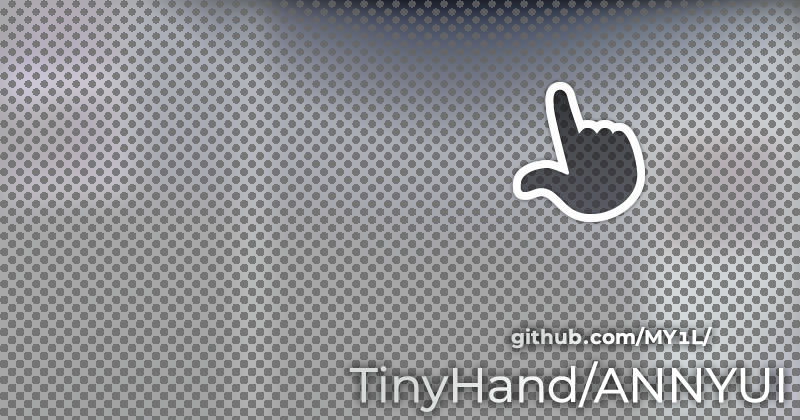
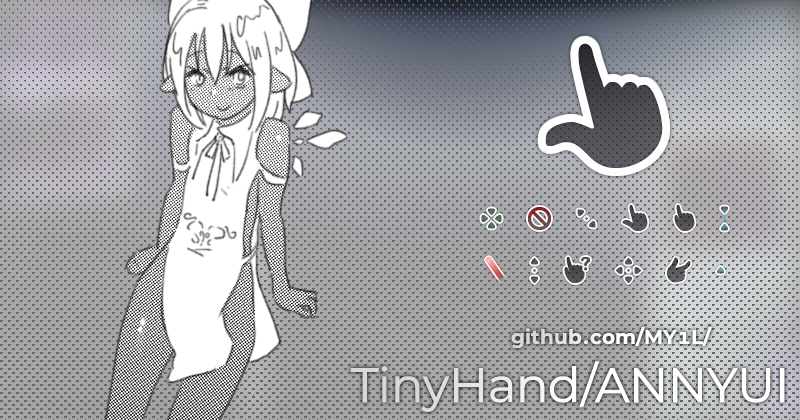
接近于正式版

diff --git a/README.md b/README.md
@@ -1,27 +1,27 @@
-![GIF](/_img/TinyHand.gif)
+用于而不限于视窗系统的自制光标系列。
 
-这是对2018年12月9日发布的“[thinkingcursor](https://github.com/MY1L/thinkingcursor)”光标的更新，但改成更好记的名称：**TinyHand**
-
-主要是让动画更流畅（指帧数）及修正某些像素级的错误。
-
-如先前所说扩大为系列，如今更支持**黑暗模式**和中指，政确力UpUp!
-
-## 更新
-* 未来计划：小小手，仅24~16px尺寸的光标如图![TinyTiny](/_img/TinyTinyHand.png)，如果有需求就做。
-* 2020-2-7 v0.3 修改所有`.inf`文件，现在会自动打开 控制面板→鼠标 了。
+这是对2018年12月9日发布的“[thinkingcursor](https://github.com/MY1L/thinkingcursor)”光标的更新，但改成更好记的名称：**TinyHand**。主要是让动画更流畅（指帧数）及修正某些像素级的错误。如今更支持**黑暗模式**和中指，从一扩大为三系列，政确力UpUp!
 
 ## 一览
-![KOFJI](/_img/KOFJI.png)
+一共三大系列（肤色）：ZRKL、KOFJI、ANNYUI（名称越长颜色越暗）和各种小分支。
 
-一共3大系列（肤色）：ZRKL、KOFJI、ANNYUI（名称越长颜色越暗）和各种小分支。
+![KOFJI](/_img/KOFJI.gif)
+
+用动图展示包含的几个动画光标。由于GIF最多显示256色，以下就不用动图了。
 
 ![ZRKL](/_img/ZRKL.png)
 
-给ZRKL做的手势比较多。注意“sweat.ani”是代替“helpsel.cur”的，动态光标可能不宜用作默认。
+给ZRKL做的手势比较多。注意“sweat.ani”是代替“helpsel.cur”的，动画光标不太宜作常态光标。
 
 ![ANNYUI](/_img/ANNYUI.png)
 
-个别光标有透窗效果，而ANNYUI是全部都带透窗效果的黑暗模式。
+上述两个系列个别光标有透窗效果，而ANNYUI是全部都带透窗效果的黑暗模式，相当于再做了一组。预览图……再给我点时间。
+
+## 更新
+* 未来计划：小小手，仅24~16px尺寸的光标如图![TinyTiny](/_img/TinyTinyHand.png)，如有需求就做。
+* 2020-2-9 v0.6 修正`cross`。给`Zmidfinger🖕`加了Zanger💢分支，给`Aunavail🚫`加了令和十八年🔞分支。补完ZRKL系列。
+> 💢不慎误操作让GitHub删除我今天21个更新，凭记忆重做一遍。
+* 2020-2-7 v0.3 修改所有`.inf`文件，现在会自动打开 控制面板→鼠标 了。
 
 ## 下载 ![GitHub repo size](https://img.shields.io/github/repo-size/MY1L/TinyHand) ![GitHub All Releases](https://img.shields.io/github/downloads/MY1L/TinyHand/total)
 全部打包：[Releases · MY1L/TinyHand](https://github.com/MY1L/TinyHand/releases)
@@ -29,21 +29,21 @@
 ## 安装
 
 ### 勤快向
-先把光标们放到一个你确定不会动的位置，控制面板→鼠标→指针，创建一个新光标方案逐个改动。这样不会有什么文件倒进系统盘。
+先把光标们放到一个你确定不会动的位置，控制面板→鼠标→指针，创建一个新光标方案逐个改动。这样不会有什么文件倒进系统里。
 ### 懒人向
-对`.inf`右键点“安装”，这会把一堆相关光标一股脑儿全倒进`%SYSTEMROOT%\Cursors\TinyHand`系统光标文件夹里，并在注册表`HKCU\Control Panel\Cursors\Schemes`生成一个光标方案。等复制完（很快的）后会自动打开 控制面板→鼠标，此时应该改好了，如果没变化，选 鼠标→指针→`TinyHand ***`方案，点应用。如有“你所选择的光标方案名已在使用中。是否要替换原方案?”提示可以无视。
+对`.inf`右键点“安装”，这会把一堆相关光标一股脑儿全倒进`%SYSTEMROOT%\Cursors\TinyHand`系统光标文件夹里，并在注册表`HKCU\Control Panel\Cursors\Schemes`生成一个光标方案。等复制完（很快的）后会自动打开 控制面板→鼠标，此时应该改好了，如果没变化，选 鼠标→指针→`TinyHand ***`方案，点应用。
 
-考虑到ZRKL有些光标与KOFJI重复，决定以KOFJI为基准。装ZRKL需要先安装`KOFJI***.inf`，当然手动安装无所谓。
+如有“你所选择的光标方案名已在使用中。是否要替换原方案?”提示可以无视。
 
 ## 卸载
-控制面板→鼠标→指针，删除方案，再删除对应光标。如果是用`.inf`安装的，还要进系统光标文件夹删`TinyHand`文件夹。
+控制面板→鼠标→指针，删除方案，再删除对应光标。如果用的`.inf`安装，还要进系统光标文件夹删`TinyHand`文件夹。
 
 ## 注意
-* 资源管理器可能会错误显示cur的预览，例如发现TinyHand光标出现在TinyHand文件夹之外（这应该不可能），请删除前用控制面板的指针预览确认下。
-* 控制面板的指针预览不会按正常速度显示动态光标。
+* 资源管理器可能会错误地显示光标缩略图，例如发现TinyHand光标出现在TinyHand文件夹之外（这应该不可能），请删除前用控制面板的光标预览确认下。
+* 控制面板的指针预览不会按正常速度显示动画光标。
 * 中指光标的灵感来自[这个用于百度的脚本](https://greasyfork.org/zh-CN/scripts/28206-baidu-cursor)。
-* 可以自行修改`.inf`，但保存的文本编码必须为ANSI，否则乱码。
+* 可以自行修改`.inf`，但保存时文本编码必须选ANSI，否则安装的方案名会乱码。
 
 若要定制其它题材光标或赞助，[请来这发电](https://afdian.net/@FairyFloss)。
 
-还有什么问题建议就来[Issues ](https://github.com/MY1L/TinyHand/issues)发帖。
+还有其它问题建议就来[Issues ](https://github.com/MY1L/TinyHand/issues)发帖。
